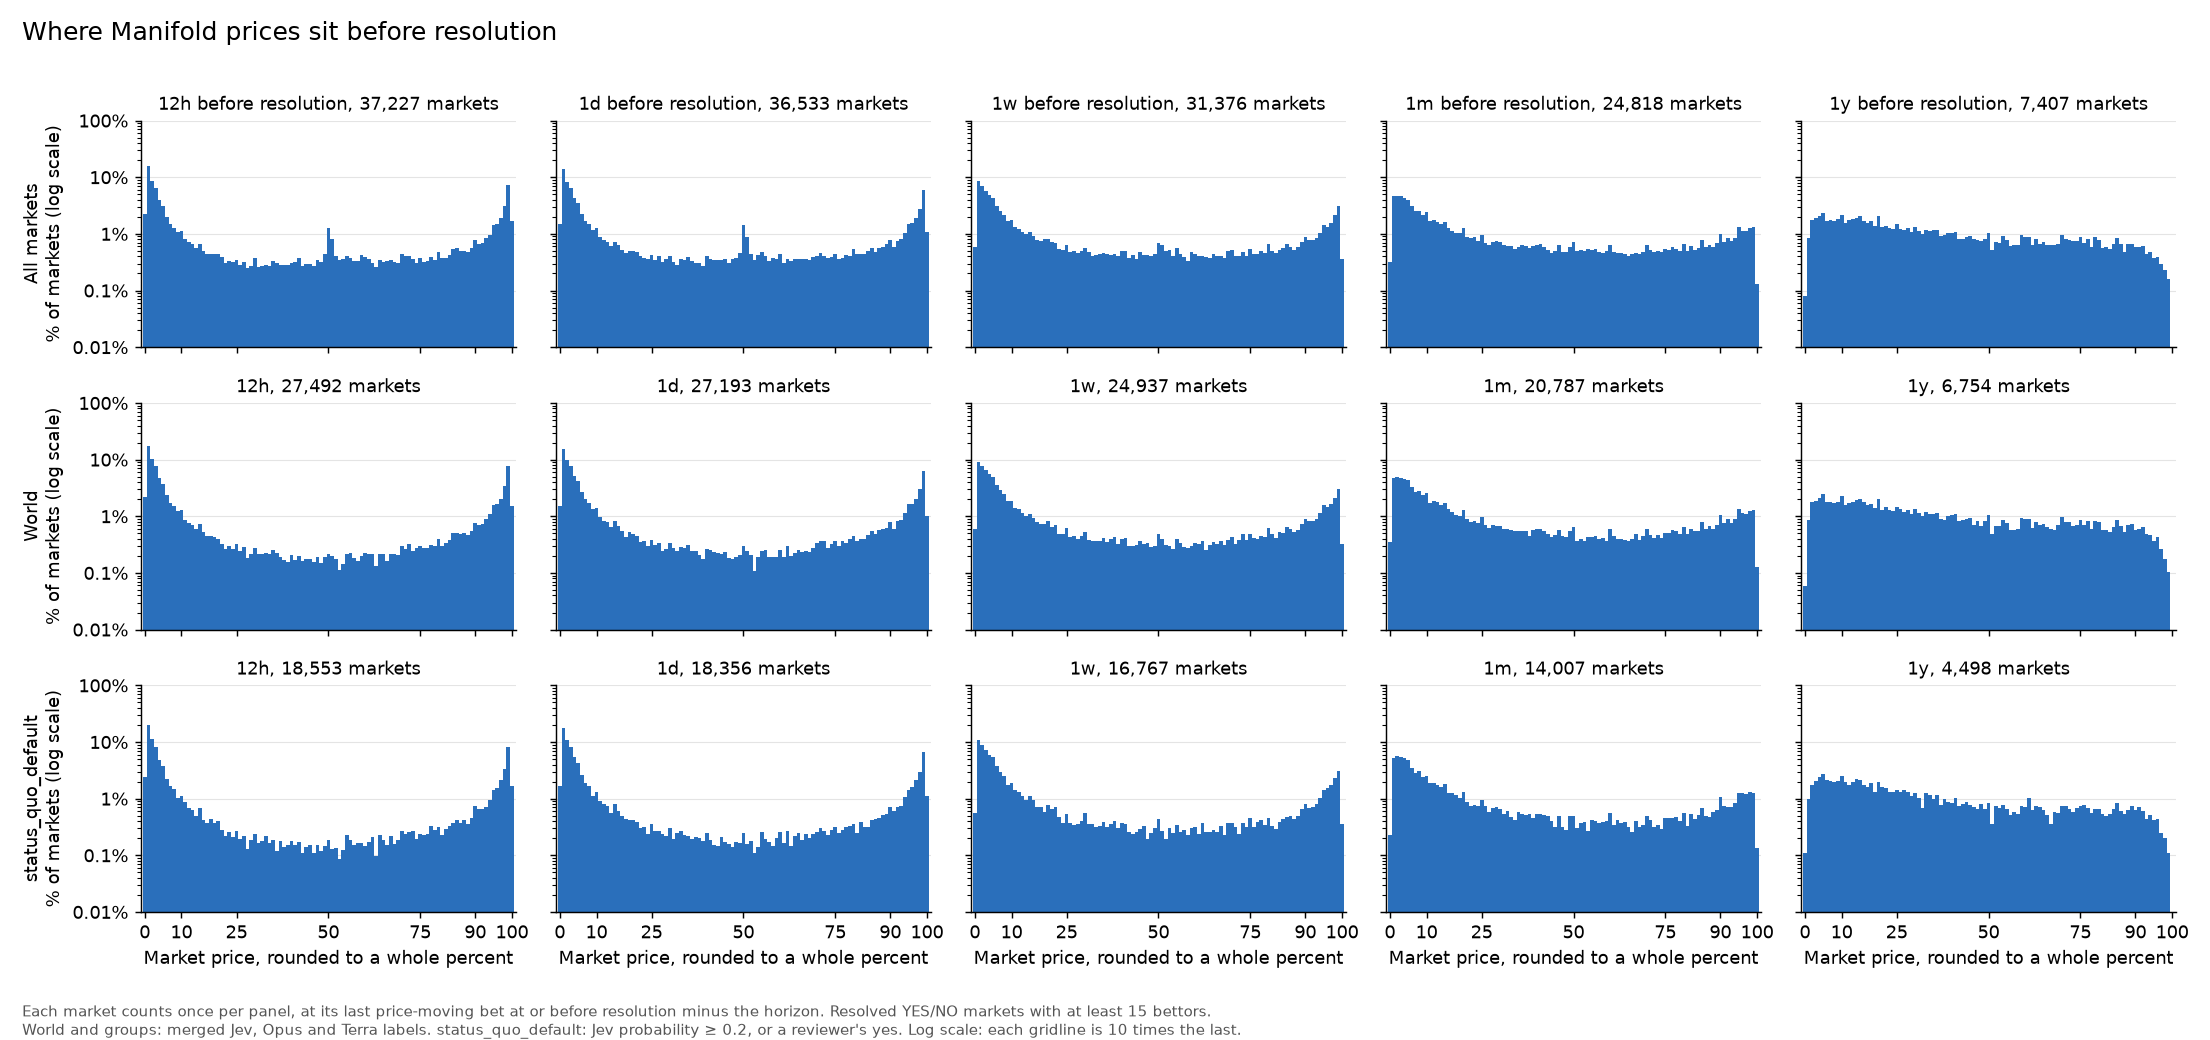
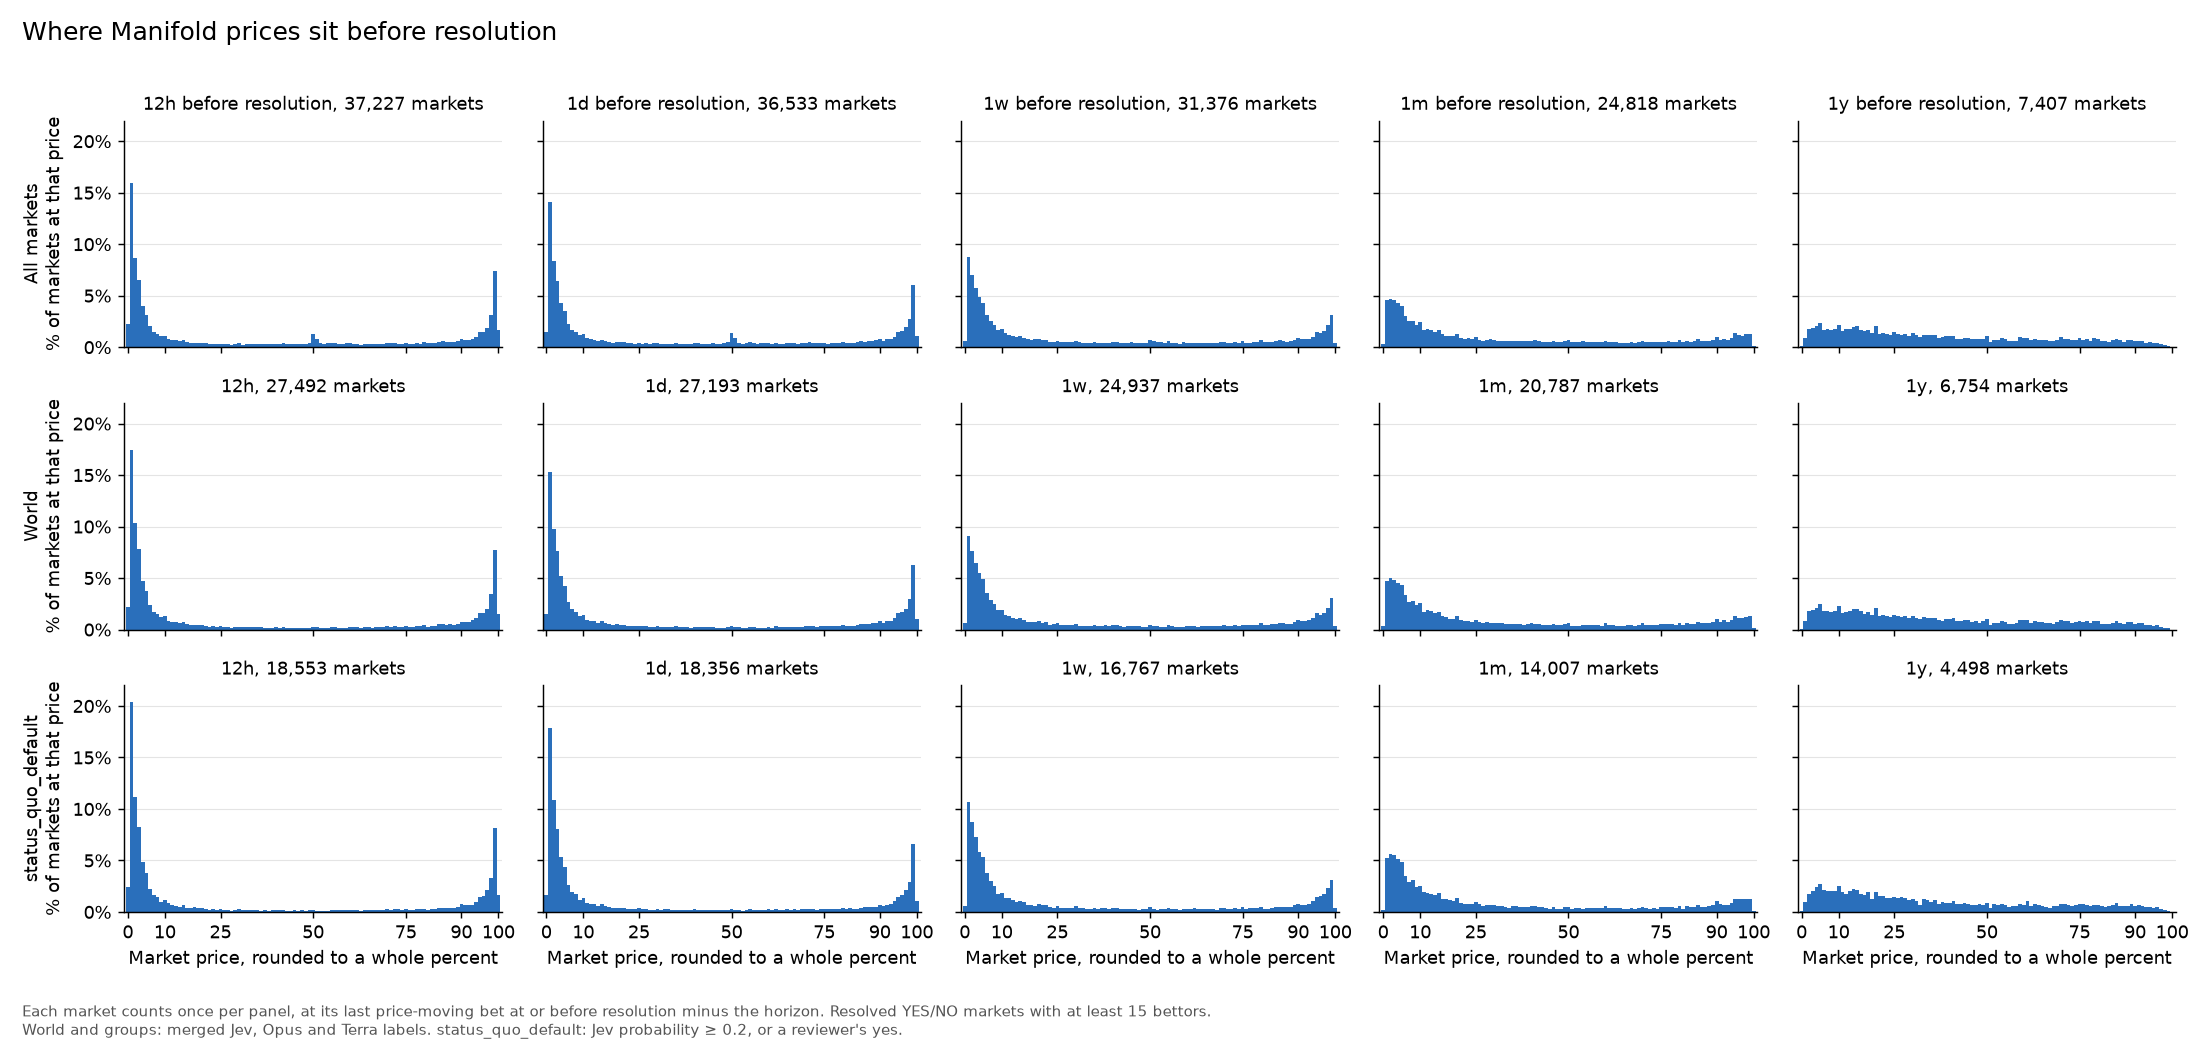
Price distribution plot: plain y-axis instead of log scale

diff --git a/src/plot_price_distribution.py b/src/plot_price_distribution.py
@@ -32,21 +32,20 @@ for r, (name, ids) in enumerate(sets.items()):
         rows += [dict(set=name, horizon=h, percent=p, share=v, markets=len(g)) for p, v in share.items()]
         ax = axes[r, c]
         ax.bar(share.index, share.values, width=1, color="#2a6fbb")
-        ax.set_yscale("log")
-        ax.set_ylim(0.01, 100)
+        ax.set_ylim(0, 22)
         ax.set_xlim(-1, 101)
         ax.set_xticks([0, 10, 25, 50, 75, 90, 100])
-        ax.set_yticks([0.01, 0.1, 1, 10, 100], ["0.01%", "0.1%", "1%", "10%", "100%"])
+        ax.set_yticks([0, 5, 10, 15, 20], ["0%", "5%", "10%", "15%", "20%"])
         ax.grid(axis="y", color="#e4e4e4", linewidth=0.6)
         ax.set_axisbelow(True)
         ax.spines[["top", "right"]].set_visible(False)
         ax.set_title(f"{h} before resolution, {len(g):,} markets" if r == 0 else f"{h}, {len(g):,} markets", fontsize=10)
-    axes[r, 0].set_ylabel(f"{name}\n% of markets (log scale)", fontsize=10)
+    axes[r, 0].set_ylabel(f"{name}\n% of markets at that price", fontsize=10)
 for ax in axes[-1]:
     ax.set_xlabel("Market price, rounded to a whole percent")
 fig.suptitle("Where Manifold prices sit before resolution", fontsize=14, x=0.01, ha="left")
 fig.text(0.01, 0.005, "Each market counts once per panel, at its last price-moving bet at or before resolution minus the horizon. Resolved YES/NO markets with at least 15 bettors.\n"
-         f"World and groups: merged Jev, Opus and Terra labels. {SQ}: Jev probability ≥ {QUIET}, or a reviewer's yes. Log scale: each gridline is 10 times the last.", fontsize=8.5, color="#555555")
+         f"World and groups: merged Jev, Opus and Terra labels. {SQ}: Jev probability ≥ {QUIET}, or a reviewer's yes.", fontsize=8.5, color="#555555")
 fig.tight_layout(rect=(0, 0.05, 1, 0.97))
 (ROOT / "plots").mkdir(exist_ok=True)
 fig.savefig(ROOT / "plots/price_distribution.png", dpi=130)
